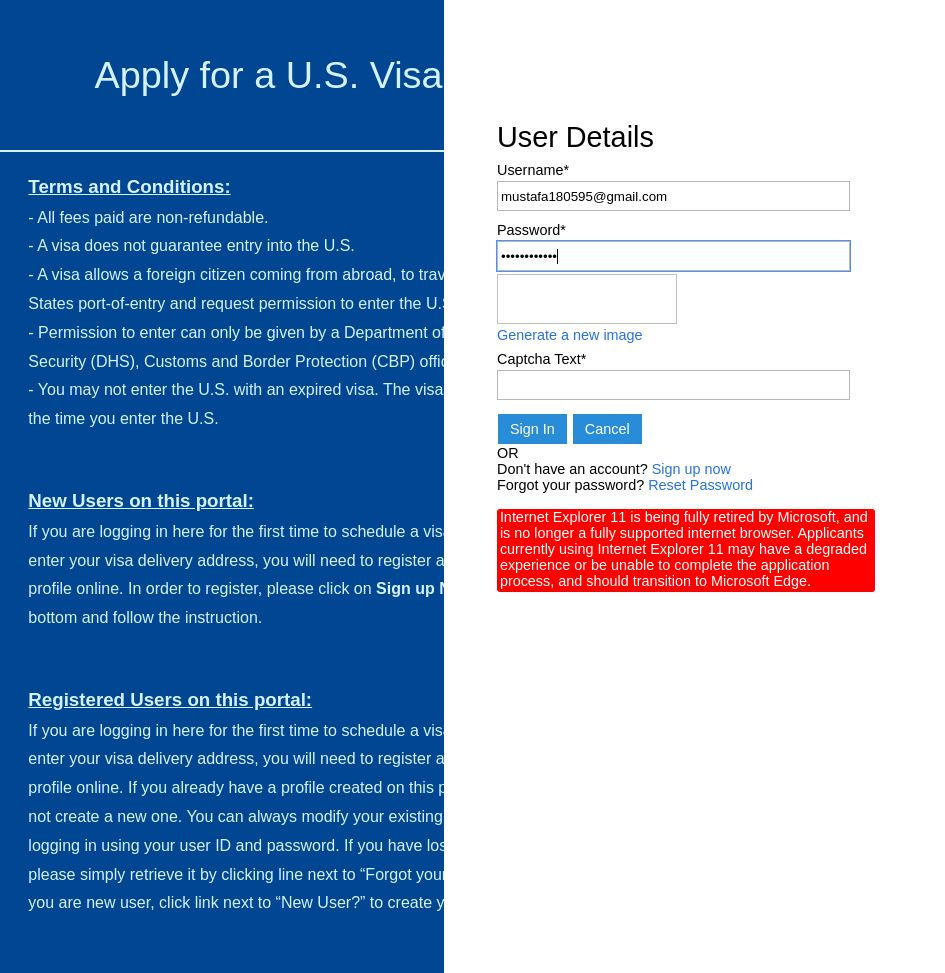
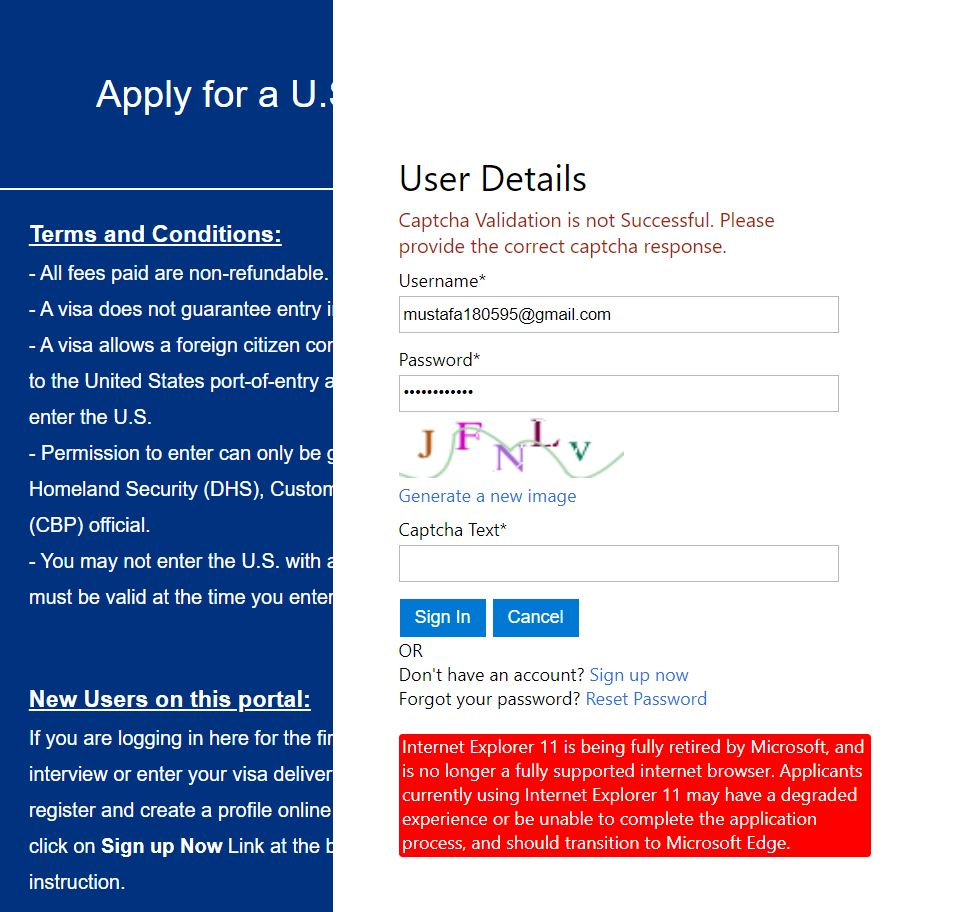
fixed full captcha problem

diff --git a/popup.html b/popup.html
@@ -10,6 +10,23 @@
         .captcha-image {
             max-width: 100%;
             height: auto;
+            margin-bottom: 2vh;
+        }
+      
+        #viewFullImageLink {
+        display: block;
+        padding: 5px 10px;
+        background-color: #54687e;
+        color: #ededed;
+        text-decoration: none;
+        border-radius: 5px;
+        text-align: center;
+        transition: background-color 0.3s;
+        margin-bottom: 3vh;
+        }
+
+        #viewFullImageLink:hover {
+        background-color: #0056b3;
         }
     </style>
 </head>
@@ -27,13 +44,16 @@
             <!-- Add more options as needed -->
         </select>
 
+        <!-- CAPTCHA image -->
+        <img id="captchaImage" class="captcha-image" src="" alt="CAPTCHA Image" style="display: none;">
+
+        <!-- Link to view full image -->
+        <a id="viewFullImageLink" href="#" target="_blank">Can't See the captcha ⁉ View Full Image</a>
+
         <!-- Space for CAPTCHA input -->
         <label for="captchaInput" class="block font-semibold mb-1 text-base">Enter CAPTCHA:</label>
         <input type="text" id="captchaInput" name="captchaInput" placeholder="Enter text here"
             class="border border-gray-300 rounded px-3 py-2 w-full mb-4 focus:outline-none focus:border-blue-500 text-base">
-
-        <!-- CAPTCHA image -->
-        <img id="captchaImage" class="captcha-image" src="" alt="CAPTCHA Image" style="display: none;">
 
         <!-- Submit CAPTCHA Button -->
         <button id="submitCaptchaButton"

diff --git a/script.js b/script.js
@@ -92,3 +92,21 @@ function submitCaptchaText() {
 document.getElementById("submitCaptchaButton").addEventListener("click", () => {
   submitCaptchaText();
 });
+
+
+document.addEventListener('DOMContentLoaded', function() {
+  // Find the "View Full Image" link element
+  var viewFullImageLink = document.getElementById('viewFullImageLink');
+
+  // Add a click event listener to the link
+  viewFullImageLink.addEventListener('click', function(event) {
+      // Prevent the default behavior of the link
+      event.preventDefault();
+
+      // Open the image in a new tab
+      chrome.tabs.create({ url: 'http://localhost:5000/view_image' });
+
+      // Close the extension popup
+      window.close();
+  });
+});

diff --git a/backend/app.py b/backend/app.py
@@ -76,5 +76,10 @@ def get_captcha_image():
     # Return the CAPTCHA image file
     return send_file("../Image/captcha_image.png", mimetype="image/png")
 
+@app.route("/view_image", methods=["GET"])
+def view_image():
+    # Return the CAPTCHA image file
+    return send_file("../Image/Full_image.png", mimetype="image/png")
+
 if __name__ == "__main__":
     app.run(debug=True)
